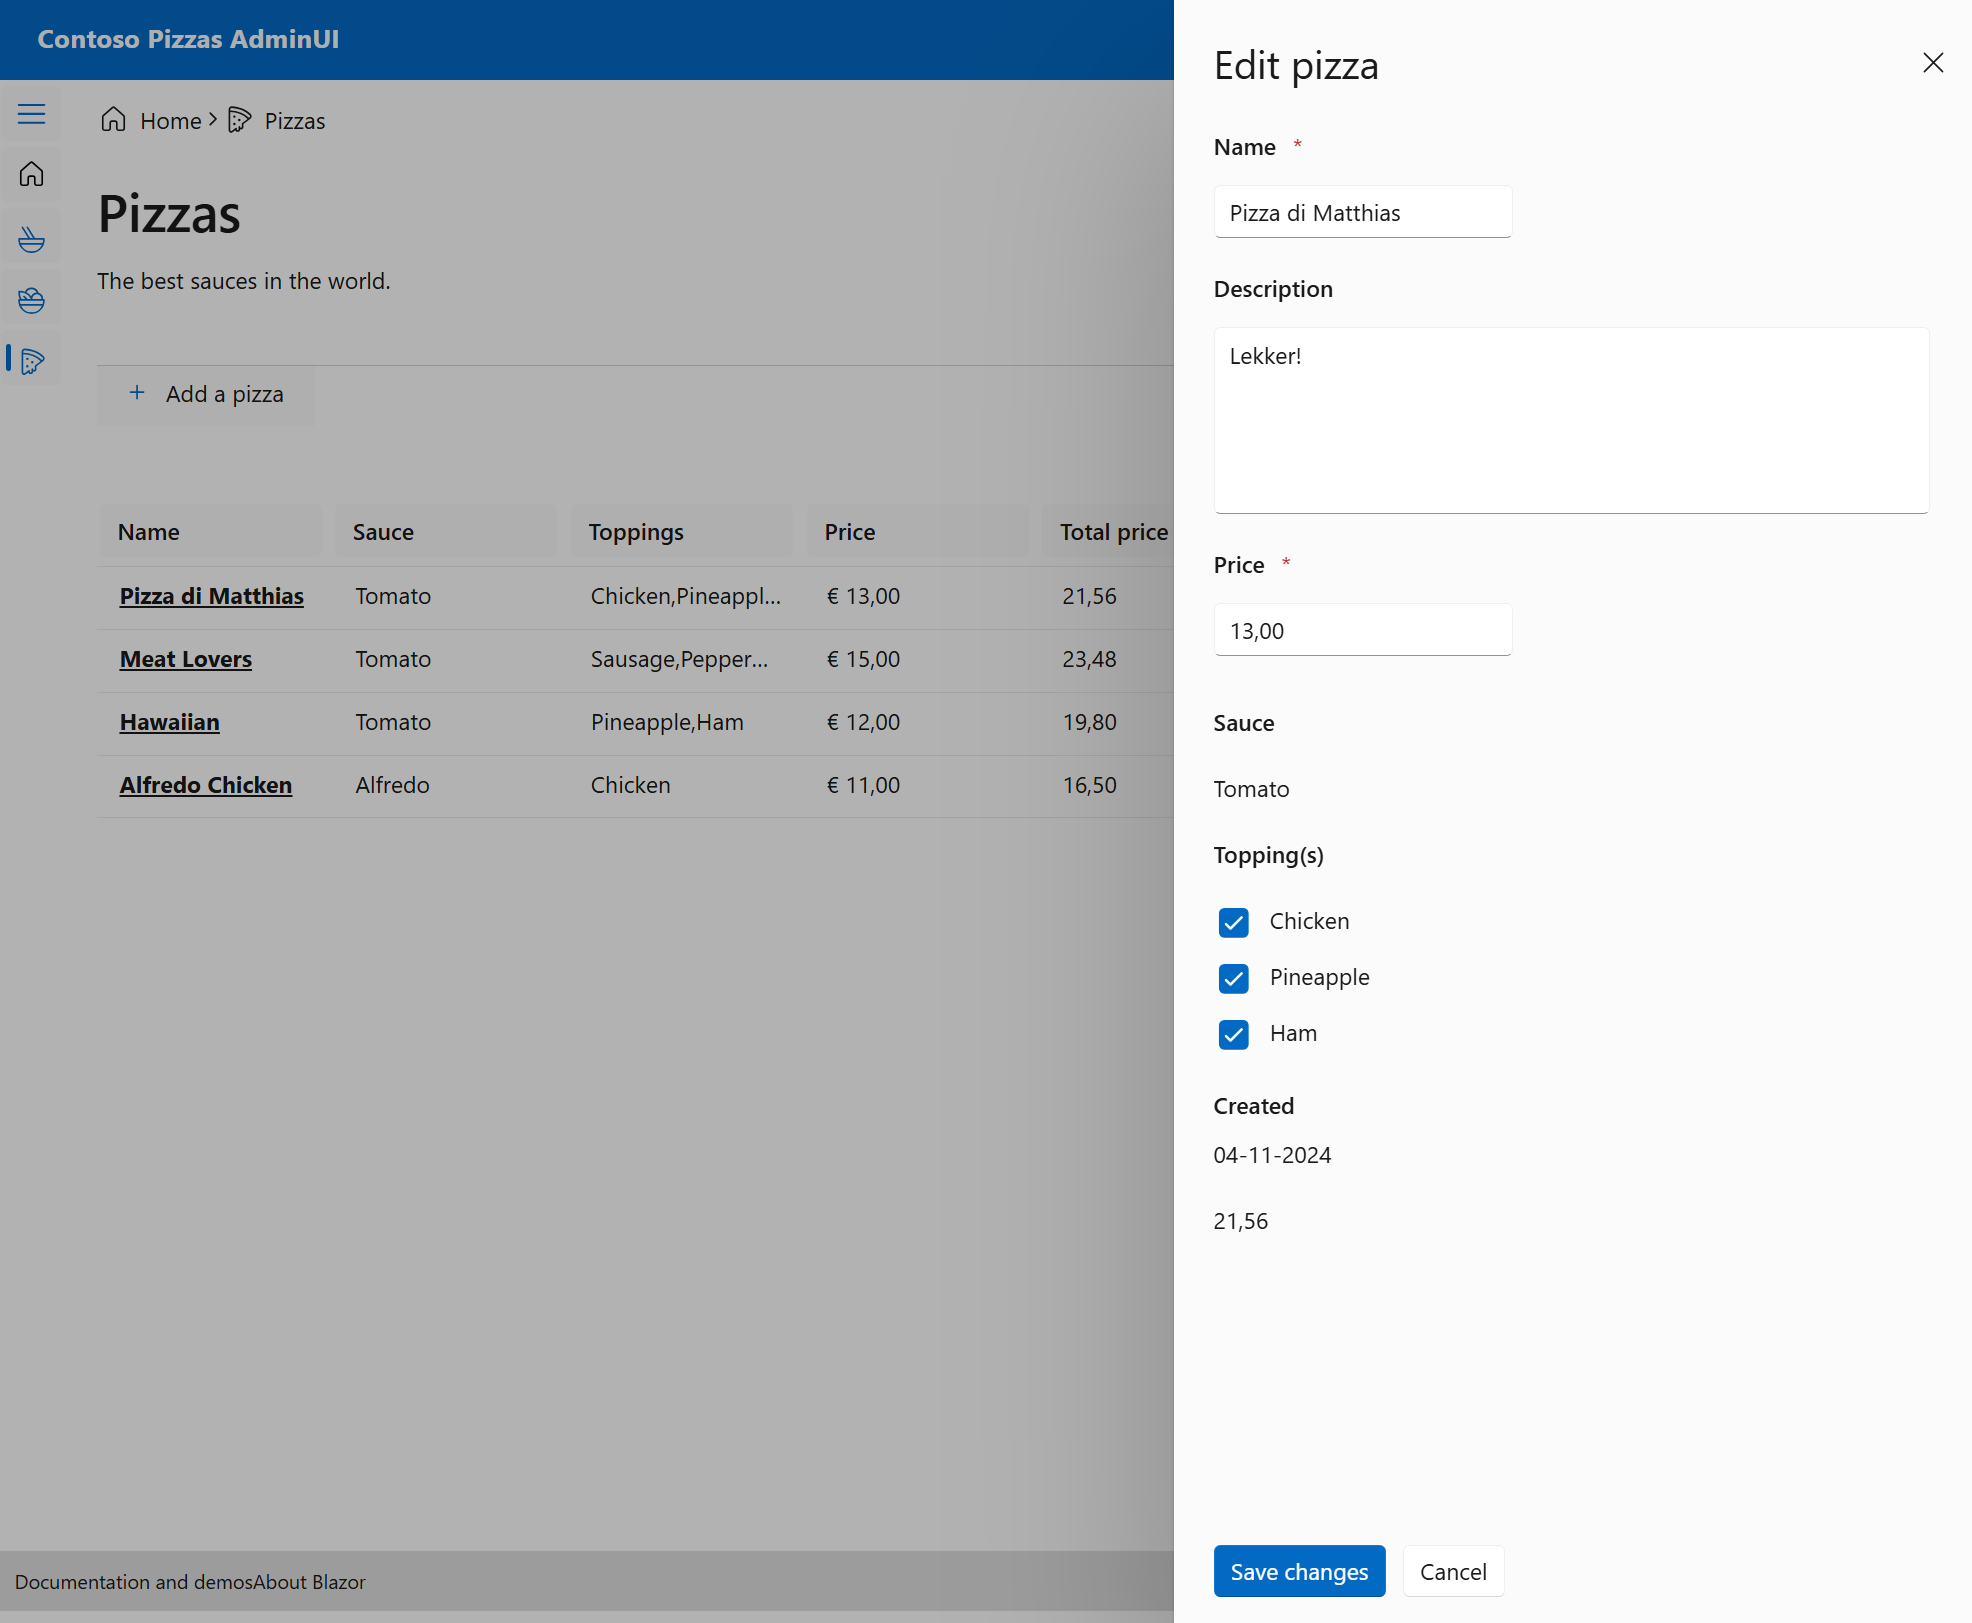
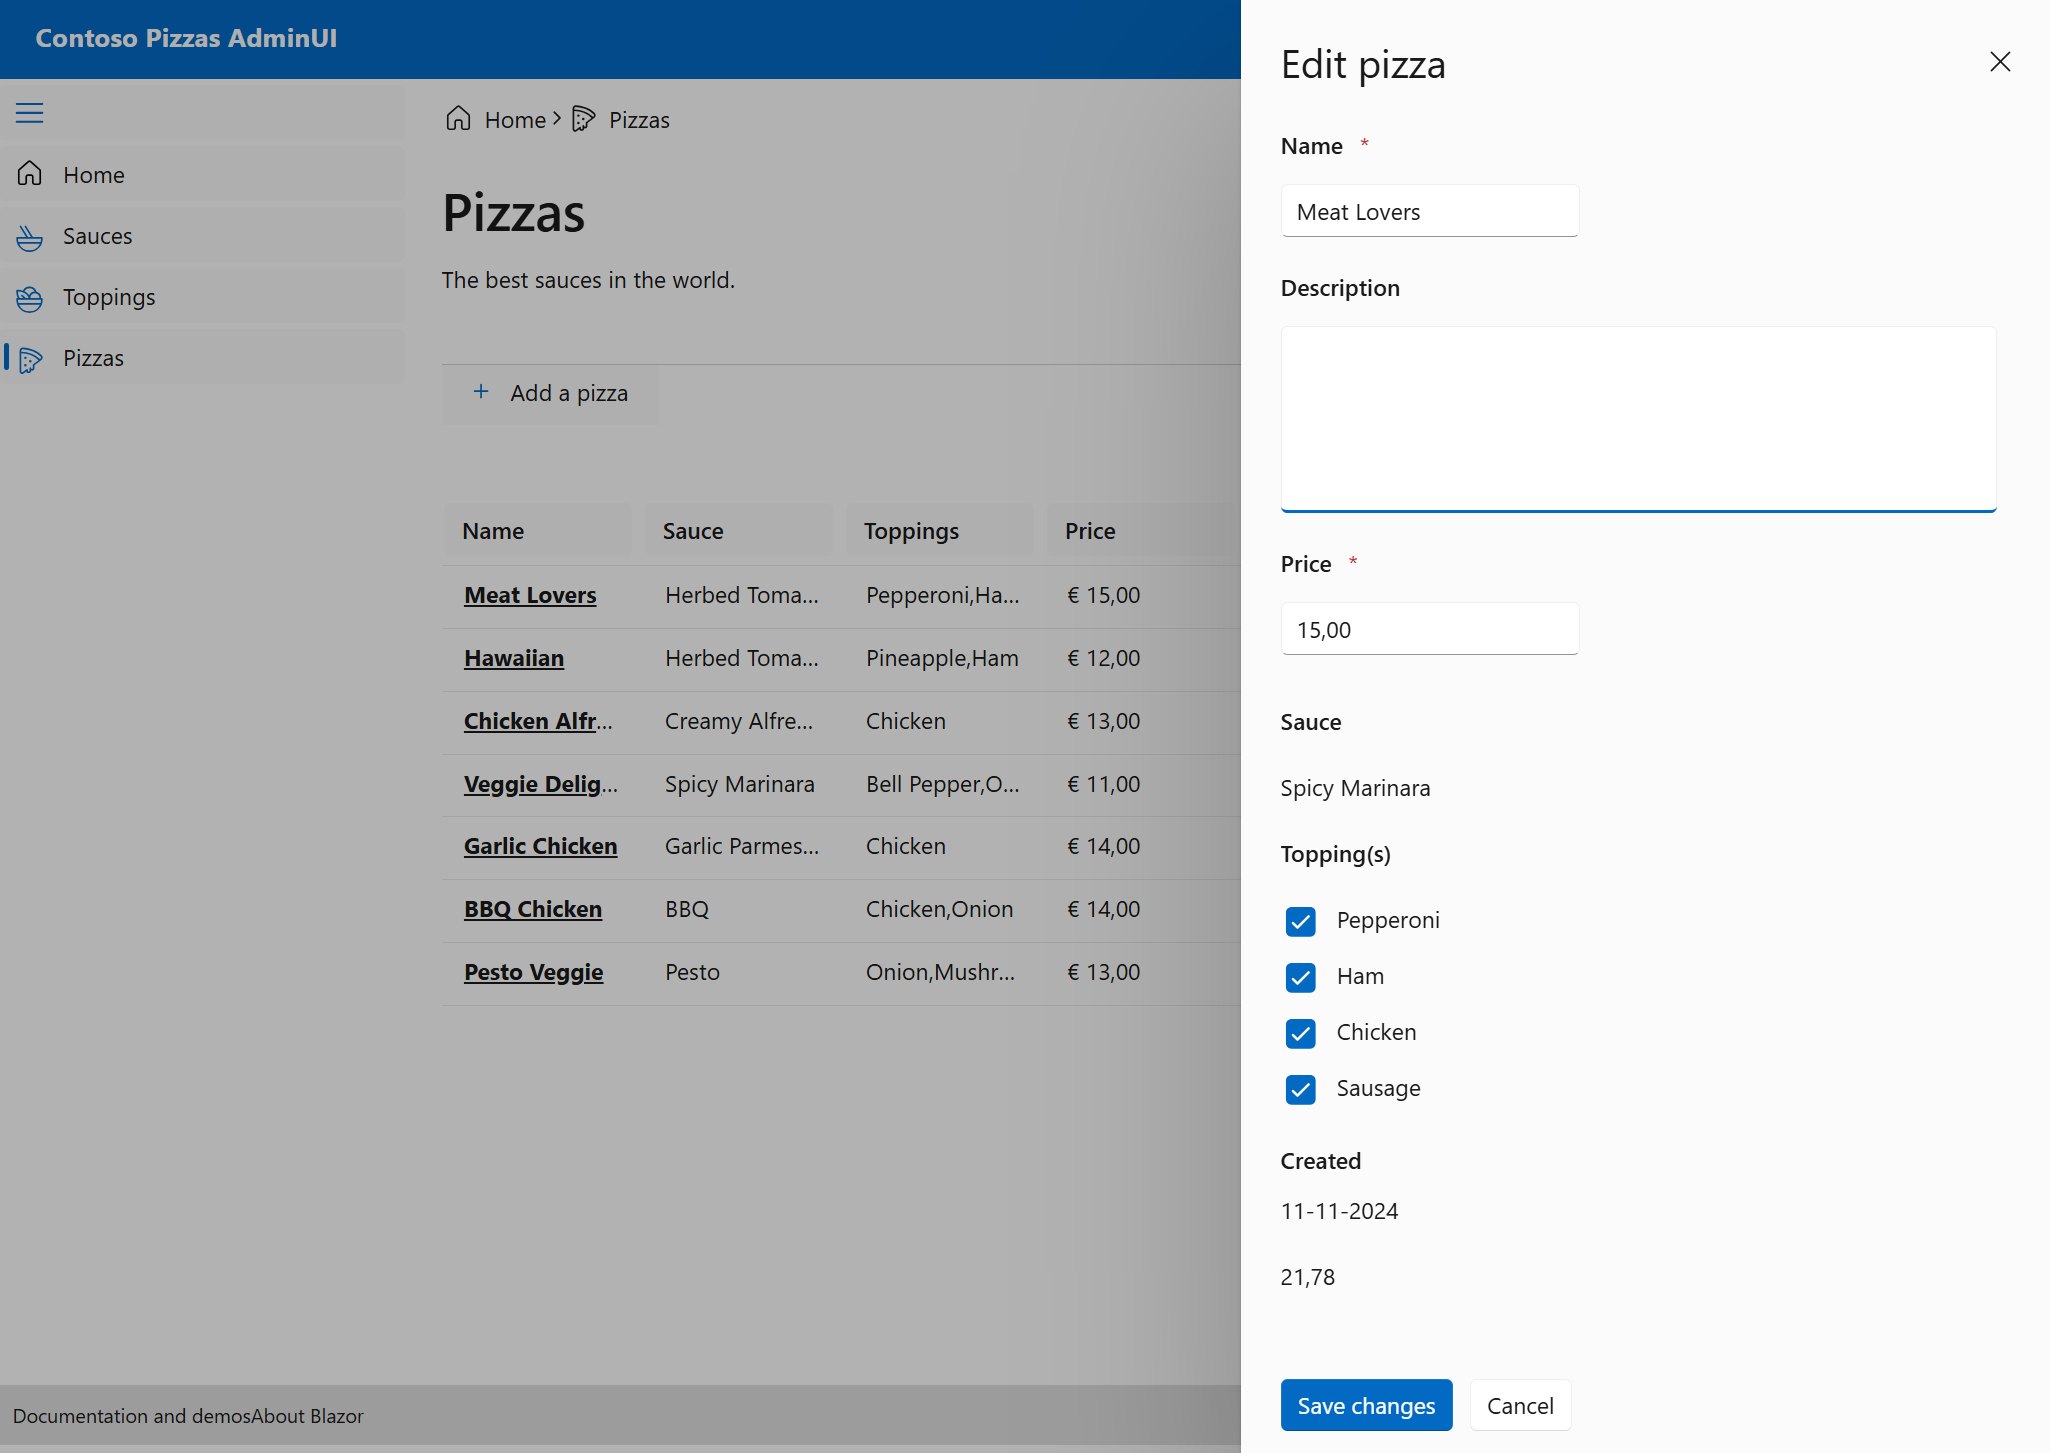
Update the database met betere voorbeeld data

diff --git a/src/Backend/Contoso.Pizza.Data/Initializers/DbInitializer.cs b/src/Backend/Contoso.Pizza.Data/Initializers/DbInitializer.cs
@@ -14,14 +14,21 @@ public static class DbInitializer
             return;
         }
 
-        var pepperoniTopping = new Topping { Name = "Pepperoni", Calories = 130, Price = 3.00m};
-        var sausageTopping = new Topping { Name = "Sausage", Calories = 100, Price = 3.00m };
-        var hamTopping = new Topping { Name = "Ham", Calories = 70, Price = 3.00m };
-        var chickenTopping = new Topping { Name = "Chicken", Calories = 50, Price = 3.50m };
-        var pineappleTopping = new Topping { Name = "Pineapple", Calories = 75, Price = 2.00m };
+        var pepperoniTopping = new Topping { Name = "Pepperoni", Calories = 130, Price = 1.85m};
+        var sausageTopping = new Topping { Name = "Sausage", Calories = 100, Price = 2.15m };
+        var hamTopping = new Topping { Name = "Ham", Calories = 70, Price = 2.10m };
+        var chickenTopping = new Topping { Name = "Chicken", Calories = 50, Price = 2.05m };
+        var pineappleTopping = new Topping { Name = "Pineapple", Calories = 75, Price = 1.75m };
+        var mushroomTopping = new Topping { Name = "Mushroom", Calories = 20, Price = 1.50m };
+        var bellPepperTopping = new Topping { Name = "Bell Pepper", Calories = 15, Price = 1.25m };
+        var onionTopping = new Topping { Name = "Onion", Calories = 10, Price = 1.00m };
 
-        var tomatoSauce = new Sauce { Name = "Tomato", IsVegan = true, Price = 1.00m };
-        var alfredoSauce = new Sauce { Name = "Alfredo", IsVegan = false, Price = 2.00m };
+        var spicyMarinara = new Sauce { Name = "Spicy Marinara", IsVegan = true, Price = 1.50m };
+        var garlicParmesan = new Sauce { Name = "Garlic Parmesan", IsVegan = false, Price = 2.50m };
+        var tomatoSauce = new Sauce { Name = "Herbed Tomato", IsVegan = true, Price = 1.00m };
+        var alfredoSauce = new Sauce { Name = "Creamy Alfredo", IsVegan = false, Price = 2.00m };
+        var pestoSauce = new Sauce { Name = "Pesto", IsVegan = true, Price = 2.00m };
+        var bbqSauce = new Sauce { Name = "BBQ", IsVegan = true, Price = 1.75m };
 
         var pizzas = new DM.Pizza[]
             {
@@ -44,21 +51,67 @@ public static class DbInitializer
                         Sauce = tomatoSauce,
                         Toppings = new List<Topping>
                             {
-                                pineappleTopping,
-                                hamTopping
+                                hamTopping,
+                                pineappleTopping
                             },
                         Price = 12.00m
                     },
                 new DM.Pizza
                     {
-                        Name="Alfredo Chicken",
+                        Name = "Chicken Alfredo",
                         Sauce = alfredoSauce,
                         Toppings = new List<Topping>
                             {
                                 chickenTopping
                             },
+                        Price = 13.00m
+                    },
+                new DM.Pizza
+                    {
+                        Name = "Veggie Delight",
+                        Sauce = spicyMarinara,
+                        Toppings = new List<Topping>
+                            {
+                                pineappleTopping,
+                                mushroomTopping,
+                                bellPepperTopping,
+                                onionTopping
+                            },
                         Price = 11.00m
-                        }
+                    },
+                new DM.Pizza
+                    {
+                        Name = "Garlic Chicken",
+                        Sauce = garlicParmesan,
+                        Toppings = new List<Topping>
+                            {
+                                chickenTopping
+                            },
+                        Price = 14.00m
+                    },
+                new DM.Pizza
+                    {
+                        Name = "BBQ Chicken",
+                        Sauce = bbqSauce,
+                        Toppings = new List<Topping>
+                            {
+                                chickenTopping,
+                                onionTopping
+                            },
+                        Price = 14.00m
+                    },
+                new DM.Pizza
+                    {
+                        Name = "Pesto Veggie",
+                        Sauce = pestoSauce,
+                        Toppings = new List<Topping>
+                            {
+                                mushroomTopping,
+                                bellPepperTopping,
+                                onionTopping
+                            },
+                        Price = 13.00m
+                    }
             };
 
         context.Pizza.AddRange(pizzas);

diff --git a/src/Backend/Contoso.Pizza.Data/Migrations/20241111190655_InitialCreate.Designer.cs b/src/Backend/Contoso.Pizza.Data/Migrations/20241111190655_InitialCreate.Designer.cs
@@ -11,7 +11,7 @@ using Microsoft.EntityFrameworkCore.Storage.ValueConversion;
 namespace Contoso.Pizza.Data.Migrations
 {
     [DbContext(typeof(ContosoPizzaDataContext))]
-    [Migration("20241104133550_InitialCreate")]
+    [Migration("20241111190655_InitialCreate")]
     partial class InitialCreate
     {
         /// <inheritdoc />
